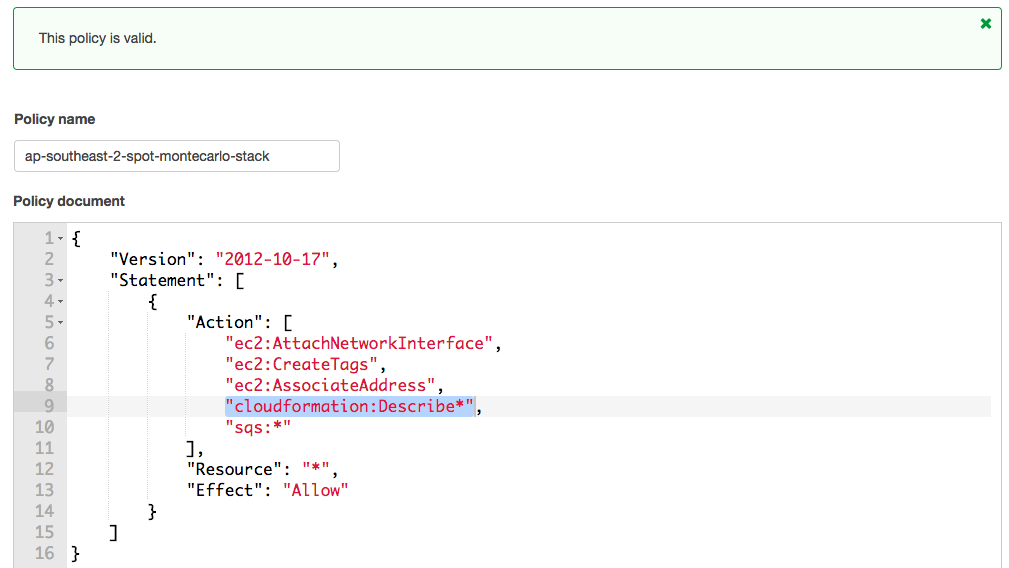
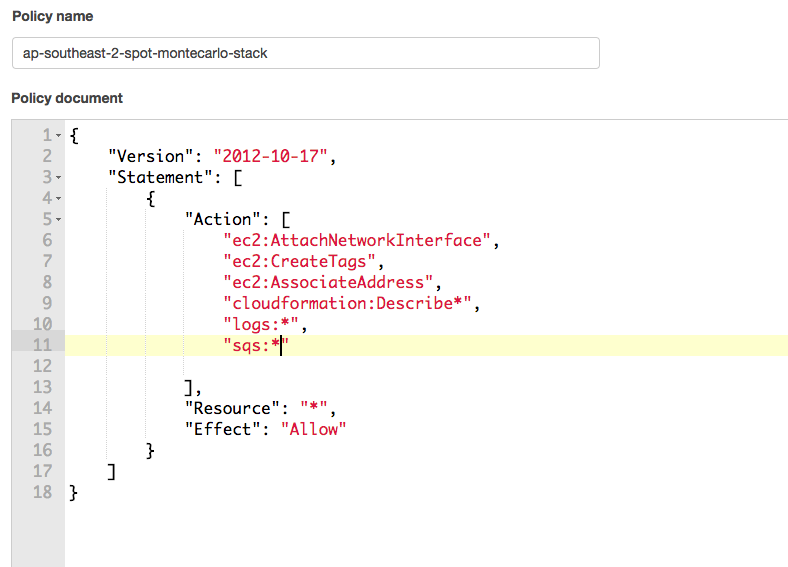
Updated README with Batch steps and Spot AS

diff --git a/README.md b/README.md
@@ -11,6 +11,7 @@
 	* [Lab 3 - Deploy an Automated Trading Strategy with EC2 Spot Fleet](#lab3)
 	* [Lab	4 - Leverage a Fully Managed Solution using AWS Batch](#lab4)
 * [Clean Up](#cleanup)
+* [Appendix](#appendix)
 
 <a name="intro"></a>
 ## Introduction:  
@@ -142,9 +143,7 @@ If there was an error during the stack creation process, CloudFormation will rol
 
 The [Jupyter Notebook](http://jupyter.org/) allows you to create and share documents that contain live code, equations, visualizations and narrative text.
 
-1. Log into the Jupyter Notebook using the **Jupyter** URL output from the CloudFormation Template using the password you configured when building the stack.  We have created a self-signed certificate for the Jupyter Notebook. You will see messages about an unsafe connection. It is safe to ignore these warnings and continue. The steps will differ depending on your browser.
-
-	![Certificate Warning](images/cert_warning.png)
+1. Log into the Jupyter Notebook using the **Jupyter** URL output from the CloudFormation Template using the password you configured when building the stack. 
 
 2. Click on the notebook named *monte-carlo-workshop.ipynb* and it should open in a new tab.
 3. Follow the instructions in the Notebook to complete Lab 2. If you're new to Jupyter, you press shift-enter to run code and/or proceed to the next section. When you're done with the Notebook, return here and we'll take the concepts we learned in this lab and build our own automated pipeline.
@@ -185,7 +184,7 @@ Our EC2 instances run with an Instance Profile that contains an IAM role giving 
 
 	![IAM Role](images/iam_role.png)
 
-5. Under *Actions*, place a comma after `"cloudformation:Describe*"`.
+5. Under *Actions*, place a comma after the last action (e.g. `"logs:*"`).
 6. Add a new entry `"sqs:*"`which will give permission for all SQS actions. Click **Validate Policy**.
 
 	![IAM Validate](images/iam_validate.png)
@@ -229,36 +228,36 @@ The CloudFormation template deployed a web server that will serve as the user in
 8. For **Network**, pick the VPC we created for the Spot Monte Carlo Workshop.
 9. Under Availability Zone, check the box next to the first two AZs. The Network Subnet should auto-populate. If the subnet dropdown box says *"No subnets in this zone*, uncheck and select another AZ
 10.  Select **Use automated bidding**
+	![Spot Request](images/request_spot_configuration.png)
 11. Click **Next**
 12. We will use User Data to bootstrap our work nodes. Copy and paste the [spotlabworker.sh](https://github.com/aws-samples/ec2-spot-montecarlo-workshop/blob/master/templates/spotlabworker.sh) code from the repo We recommend using grabbing the latest code from the repo, but you can review the script below.
 
 	<pre>
 	#!/bin/bash
 	# Install Dependencies
-	yum -y install git python-numpy python-matplotlib	python-scipy
+	yum -y install git python-numpy python-matplotlib python-scipy
 	pip install pandas-datareader
 	pip install scipy 
 	pip install boto3
 	
 	#Populate Variables
+    echo 'Populating Variables'
 	REGION=`curl http://169.254.169.254/latest/dynamic/instance-identity/document|grep region|awk -F\" '{print $4}'`
 	mkdir /home/ec2-user/spotlabworker
 	chown ec2-user:ec2-user /home/ec2-user/spotlabworker
 	cd /home/ec2-user/spotlabworker
 	WEBURL=$(aws cloudformation --region $REGION describe-stacks --query 'Stacks[0].Outputs[?OutputKey==`WebInterface`].OutputValue' --output text)
-	
-	#Download the worker code
+	echo 'Region is '$REGION
+    echo 'URL is '$WEBURL
+
+    echo "Downloading worker code"
 	wget $WEBURL/static/queue_processor.py
 	wget $WEBURL/static/worker.py
 	
-	#Configure the worker with the proper inputs
-	echo "QUEUE = 'Workshop'" > config.py
-	echo "REGION = '$REGION'" >> config.py
-	
-	#Start the worker processor
-	python /home/ec2-user/spotlabworker/queue_processor.py > stdout.txt 2>&1
+	echo 'Starting the worker processor'
+	python /home/ec2-user/spotlabworker/queue_processor.py --region $REGION> stdout.txt 2>&1
 	</pre>  
-12. Under **Tags**, Enter *Name* for **Key**. Enter **WorkerNode** for *Value*.
+12. Under **Tags**, Enter **Name** for *Key*. Enter **WorkerNode** for *Value*.
 13. Under **IAM instance profile**, pull the dropdown and select the profile beginning with the workshop name you configured in the CloudFormation Template.
 13. Select the Security Group named after your Workshop.
 14. We will accept the rest of the defaults, but take a moment at look at the options that you can configure for your Spot Fleet
@@ -266,13 +265,52 @@ The CloudFormation template deployed a web server that will serve as the user in
 	* **Interruption behavior**
 	* **Load Balancer registration**
 	* **EBS Optimized**
+
+	![Spot Request](images/spot_user_data.png)
+	
 15. Click **Review**, review your settings, and then click **Launch**.
 16. Wait until the request is fulfilled, capacity shows the specified number of Spot instances, and the status is Active.
 17. Once the workers come up, they should start processing the SQS messages automatically. Feel free to create some more jobs from the webpage.
 
+#### Optional: Auto-scale the Worker Fleet on EC2 Spot
+In the previous step, we specified two Spot instances, but what if we need to process more than two jobs at once? In this optional section we will configure auto-scaling so that new spot instances are created as more jobs get added to the queue.
+
+1. Go to the CloudWatch console, and click on **Alarms**.
+2. Click on **Create Alarm**. Select **SQS Metrics**. 
+3. Scroll down and select **ApproximateNumberOfMessagesVisible**. Click **Next**
+
+ 	![CW Alarm](images/spot_cw_alarm.png)
+ 
+4. We will create a threshold for scaling up. Name the alarm, set the threshold for **>= 2** messages for **2** consecutive periods. Delete the default notification actions and hit **Create**.
+ 
+ 	![CW Alarm](images/spot_cw_alarmfinal.png)
+ 
+ 5. Repeat these steps for the scale down policy. Name the alarm appropriately. Set the threshold for **<= 1** message for **3** consecutive periods.
+ 6. Return to **Spot Requests** in the EC2 Console.
+ 7. Select your fleet and go to the **Auto Scaling** tab at the bottom pane.
+ 8. Click **Configure**. On the next screen, click on **Scale Spot Fleet using step or simple scaling policies**
+
+ 	![CW Alarm](images/spot_auto_scale.png)
+
+ 9. Under the **ScaleUp** and **ScaleDown** policies, configure the appropriate alarms under **Policy trigger**.
+
+ 	![CW Alarm](images/spot_auto_scale_final.png)
+
+ 10. Click **Save**
+
 #### Evaluate the Results
-1. Check your S3 Bucket. In a few minutes you should see results start appearing the bucket. 
-2. If you monitor the SQS queue for messages you should see them being picked up by the worker nodes. 
+1. Check your S3 Bucket. In a few minutes, you should see results start appearing the bucket. 
+2. If you monitor the SQS queue for messages you should see them being picked up by the worker nodes.
+
+#### Terminate the Spot Fleet
+In the next lab, we will use [AWS Batch](https://aws.amazon.com/batch/) to create a managed batch process pipeline. We will reuse our existing queue, so let's terminate our EC2 Spot worker fleet.
+
+1. From the EC2 Console, select **Spot Requests** and click **Request Spot Instances**.
+2. Check the box beside the Spot fleet request containing your worker nodes.  The correct request will have a capacity of 2 and the shortest time since it was created.
+
+	> **IMPORTANT**: Take care not to cancel the Spot fleet request responsible for our workstation node (Jupyter/WebClient). It will have a capacity of 1 and the instance type will be m4.large.
+
+3. Under **Actions**, select **Cancel Spot request**. 
 
 **You've completed Lab 3, Congrats!**
 
@@ -284,16 +322,16 @@ The CloudFormation template deployed a web server that will serve as the user in
 <a name="lab4"></a>
 ### Lab	4 - Leverage a Fully Managed Solution using AWS Batch 
 
-1. From the AWS Console, enter URL as https://console.aws.amazon.com/batch/home?region=REPLACE_ME_WITH_REGION#/wizard .
- Replace REPLACE_ME_WITH_REGION in the above URL with the region that you are using.
+1. Go to the AWS Batch Console. The following instructions use teh first-run wizard. If the wizard does not show, replace the path at the end of the URL with /wizard. (e.g. [https://ap-southeast-2.console.aws.amazon.com/batch/home?region=ap-southeast-2#/wizard](https://ap-southeast-2.console.aws.amazon.com/batch/home?region=ap-southeast-2#/wizard))
 
 2. Select/Enter the following values
     * **How would you like to run your job ?** : No job submission and hit Next
     * **Compute environment name** : montecarlo-batch-worker
     * **Service role** and **EC2 instance role** : Leave it defaulted to "Create a new Role"
     * **Provisioning Model** : Spot
-    * **Allowed instance typese** : optimal
-    * **Spot fleet role** : select the role created earlier
+    * **Maximum bid price** : 100
+    * **Spot fleet role** : Select the role containing your workshop name
+    * **Allowed instance types** : optimal
     * **Minimum vCPUs** : 0
     * **Desired vCPUs** : 0
     * **Maximum vCPUs** : 20
@@ -307,7 +345,9 @@ The CloudFormation template deployed a web server that will serve as the user in
     * **Job definition name** :  montecarlo-queue-processor
     * **Job role** :  Select the one that appears in drop down, as created during setup
     * **Container image** :  anshrma/montecarlo-workshop-worker:latest
-    * **Memory (MiB)** :  500
+    
+    > We have created a docker container image containing the required libraries and the Worker code that we used in the previous lab. This container image is stored on [Dockerhub](https://hub.docker.com/r/anshrma/montecarlo-workshop-worker/). This is the image that we are pulling for our batch job.
+    
     * **Environment variables (Key)**  : REGION
     * **Environment variables (Value)**  : Name the region you are using, example us-east-1
     * Leave everything as default and click **Create job Definition**
@@ -336,8 +376,9 @@ Hopefully you've enjoyed the workshop and learned a few new things. Now follow t
 
 1. In the EC2 Console > Spot Requests, click **Cancel Spot request** under **Actions**. Make sure **Terminate instances** is checked.
 2. In the SQS Console, delete the queue that you created earlier. This is located under **Queue Actions**.
-3. In the S3 Console, locate the resultsBucket that was created for your workshop. Click on the bucket and select **Empty bucket**. You will need to copy and paste the bucket name in to confirm the aciton. 
-4. In the CloudFormation template, select the workshop stack and select **Actions** and then **Delete stack**.
+3. In the S3 Console, locate the resultsBucket that was created for your workshop. Click on the bucket and select **Empty bucket**. You will need to copy and paste the bucket name in to confirm the action. 
+4. Under AWS Batch, click on your running job and click **Terminate job**. Under **Job definitions**, click on your job definition and select **deregister**. Go to **Job queues**, then disable, and delete the configured job queue.
+5. In the CloudFormation template, select the workshop stack and select **Actions** and then **Delete stack**.
 
 <a name="appendix"></a>
 ##Appendix
@@ -345,6 +386,5 @@ Hopefully you've enjoyed the workshop and learned a few new things. Now follow t
 ### Estimated Costs
 The estimated cost for running this 2.5 hour workshop will be less than $5.
 
-### Learning Resources:
 
 
